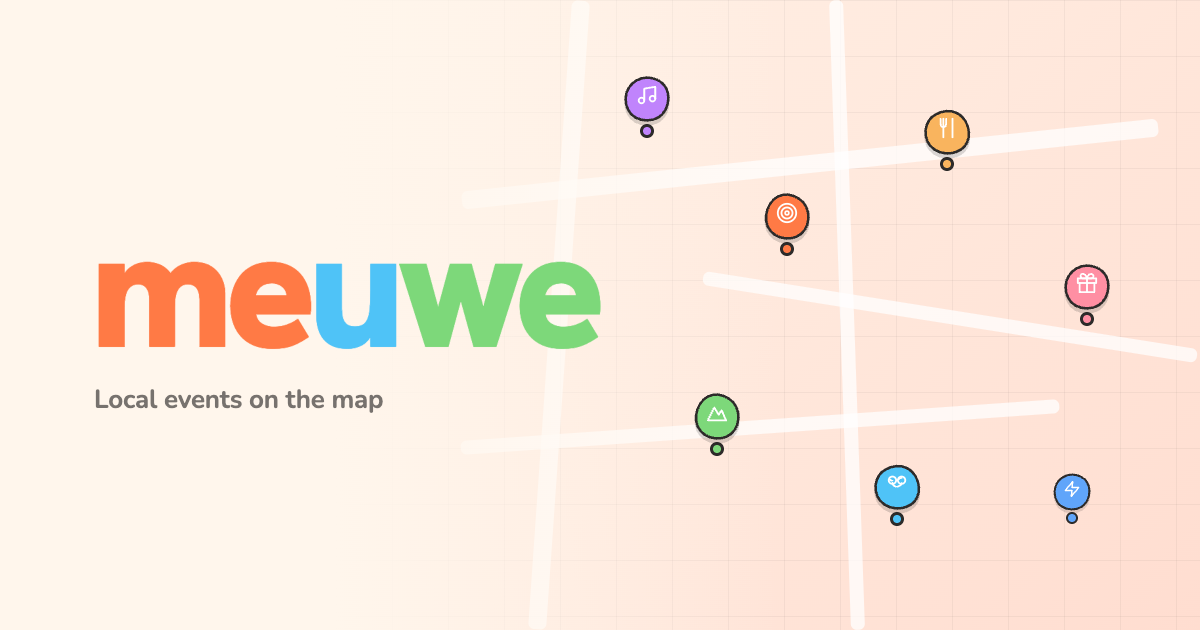
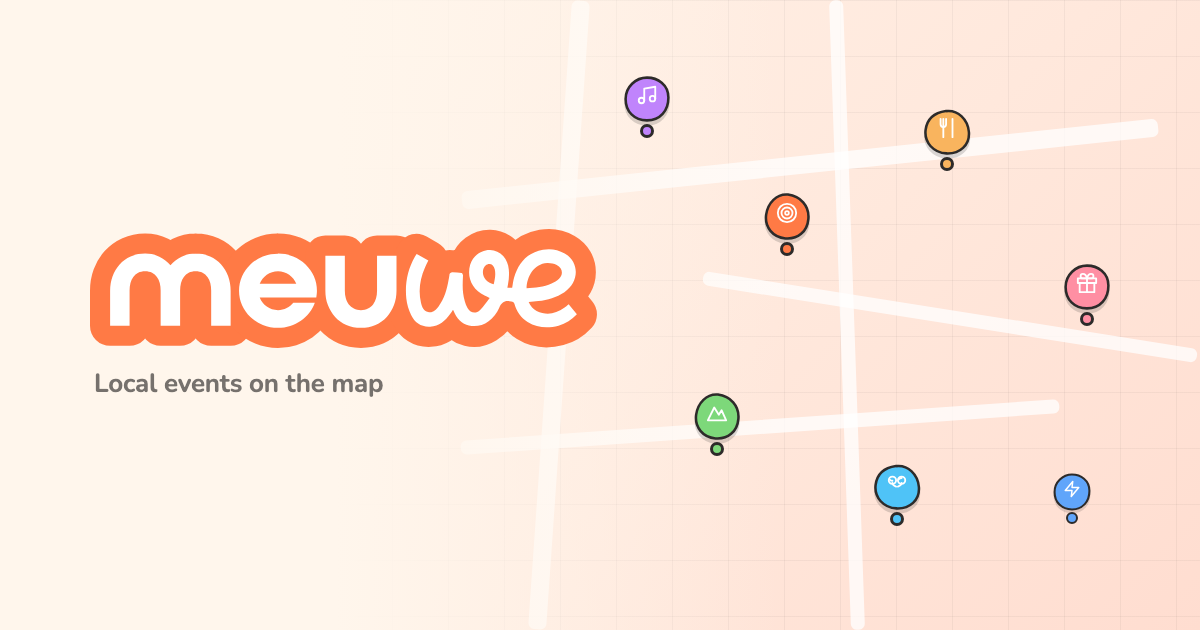
Draw the wordmark instead of setting it in type
The "meuwe" in the app was five letters of Hanken Grotesk in three colours,
repeated as three spans in nine places. The brand now has a drawn wordmark —
white letters inside an orange rim — so those spans give way to one component
holding the artwork.

It ships as inline SVG rather than an <img> because the welcome screen breathes
the logo one part at a time, and that needs the paths themselves. The rims are
painted as a single layer beneath all the white fills: neighbouring letters
overlap there, so when one part swells and its neighbour holds still the
silhouette reshapes instead of tearing open.

Sizes come from matching the old width, which lands on a steady 0.71 of the
font size it replaces. The nav keeps its own size for the next commit.

Changed region(s): [[0.0617, 0.3619, 0.5242, 0.573], [0.0617, 0.6032, 0.3392, 0.6635]]

diff --git a/src/components/MeuweLogo.tsx b/src/components/MeuweLogo.tsx
@@ -1,0 +1,97 @@
+/**
+ * Wordmark „meuwe" — naklejka: białe litery w pomarańczowym rancie.
+ *
+ * SVG siedzi inline, a nie w <img>, bo animacja na powitaniu rusza osobno
+ * członami „me", „u" i „we", a to wymaga dostępu do samych ścieżek.
+ *
+ * Kolejność malowania jest istotna: najpierw wszystkie ranty, dopiero na nie
+ * białe wypełnienia. Ranty sąsiednich liter zachodzą na siebie, więc kiedy
+ * jeden człon rośnie, a sąsiedni stoi, sylwetka naklejki tylko się
+ * przemodelowuje — nie rozpada się na kawałki.
+ */
+
+import type { CSSProperties } from 'react'
+
+// Barwa marki, ta sama co C.primary. Trzymana lokalnie, żeby logo dało się
+// wstawić również w ErrorBoundary, który celowo nie sięga po resztę kodu.
+const ORANGE = '#FF7A45'
+
+// Widoczne granice logo: ścieżki poszerzone o połowę grubości rantu.
+const VIEW_BOX = '32.73 17.64 125.02 29.33'
+const RATIO = 125.02 / 29.33
+
+/** Szerokość, jaką logo zajmie przy zadanej wysokości. */
+function meuweLogoWidth(height: number) {
+  return Math.round(height * RATIO * 100) / 100
+}
+
+// Człony skalują się wokół własnego środka w poziomie i wspólnej linii bazowej
+// w pionie — tak jak dotąd, gdy były spanami siedzącymi w jednej linii tekstu.
+const PARTS = [
+  { key: 'me', origin: '63.19px 42px', delay: '0s'   },
+  { key: 'u',  origin: '99.54px 42px', delay: '0.6s' },
+  { key: 'we', origin: '131.7px 42px', delay: '1.2s' },
+] as const
+
+const RIM = {
+  me: ['M58.77,23.69c1.32,0,2.52,.24,3.58,.72,1.07,.48,1.97,1.14,2.72,1.97,.75,.83,1.32,1.8,1.73,2.91,.4,1.11,.61,2.29,.61,3.55v8.64h-4.8v-8.64c0-.66-.08-1.29-.22-1.87-.15-.59-.38-1.09-.7-1.52-.32-.43-.72-.77-1.2-1.02-.48-.26-1.05-.38-1.71-.38s-1.23,.13-1.71,.38-.88,.6-1.2,1.02c-.32,.43-.55,.93-.7,1.52-.15,.59-.22,1.21-.22,1.87v8.64h-4.8v-8.64c0-.66-.07-1.29-.22-1.87s-.38-1.09-.7-1.52c-.32-.43-.72-.77-1.2-1.02s-1.05-.38-1.71-.38-1.23,.13-1.71,.38c-.48,.26-.88,.6-1.2,1.02-.32,.43-.55,.93-.7,1.52-.15,.59-.22,1.21-.22,1.87v8.64h-4.8v-8.64c0-1.26,.2-2.44,.61-3.55,.4-1.11,.98-2.08,1.73-2.91,.75-.83,1.65-1.49,2.72-1.97,1.07-.48,2.26-.72,3.58-.72s2.43,.26,3.5,.78,1.99,1.23,2.74,2.13c.75-.9,1.66-1.6,2.74-2.13,1.08-.52,2.24-.78,3.5-.78Z', 'M79.09,23.69c1.32,0,2.57,.24,3.74,.72,1.17,.48,2.19,1.14,3.06,1.97,.86,.83,1.55,1.8,2.05,2.91,.5,1.11,.75,2.29,.75,3.55,0,.3-.02,.58-.05,.85-.03,.27-.07,.54-.11,.82h-13.95c.36,.92,.94,1.67,1.74,2.26,.8,.59,1.72,.88,2.77,.88,.77,0,1.48-.17,2.14-.51,.66-.34,1.2-.79,1.63-1.34h5.31c-.32,.9-.77,1.73-1.36,2.5-.59,.77-1.28,1.42-2.08,1.97-.8,.54-1.68,.97-2.64,1.28-.96,.31-1.96,.46-3.01,.46-1.32,0-2.57-.24-3.74-.72-1.17-.48-2.19-1.14-3.06-1.97-.86-.83-1.55-1.8-2.05-2.91s-.75-2.29-.75-3.55,.25-2.44,.75-3.55c.5-1.11,1.18-2.08,2.05-2.91,.86-.83,1.88-1.49,3.06-1.97,1.17-.48,2.42-.72,3.74-.72Zm4.51,7.46c-.36-.91-.95-1.65-1.76-2.23-.81-.58-1.73-.87-2.75-.87s-1.97,.29-2.77,.87c-.8,.58-1.38,1.32-1.74,2.23h9.02Z'],
+  u:  ['M103.51,24.21h4.8v8.64c0,1.26-.21,2.44-.62,3.55-.42,1.11-1.01,2.08-1.78,2.91s-1.69,1.49-2.77,1.97c-1.08,.48-2.28,.72-3.6,.72s-2.52-.24-3.6-.72c-1.08-.48-2-1.14-2.77-1.97-.77-.83-1.36-1.8-1.78-2.91-.42-1.11-.62-2.29-.62-3.55v-8.64h4.8v8.64c0,.66,.08,1.29,.24,1.87,.16,.59,.4,1.09,.74,1.52,.33,.43,.75,.77,1.25,1.02s1.08,.38,1.74,.38,1.24-.13,1.74-.38,.92-.6,1.25-1.02c.33-.43,.58-.93,.74-1.52,.16-.59,.24-1.21,.24-1.87v-8.64Z'],
+  we: ['M121.47,27.81c1.04,.06,2,.09,2.95,.2,.13,.02,.33,.41,.32,.63-.11,2.29-.24,4.59,.4,6.83,.16,.56,.37,1.13,.67,1.63,.76,1.26,2.04,1.51,3.11,.48,.87-.84,1.53-1.89,2.36-2.95-.56-.26-.91-.41-1.26-.58-3.05-1.45-4.45-4.44-3.56-7.59,.61-2.16,2.71-3.73,4.91-3.67,2.14,.07,3.95,1.63,4.46,3.87,.35,1.54,.25,3.09-.04,4.63-.05,.24-.09,.48-.15,.81l1.18,.05c.16-.87,.24-1.73,.48-2.54,1.08-3.62,3.23-6.19,7.12-6.88,1.87-.33,3.69-.03,5.36,.92,3.67,2.09,3.63,7.12-.07,9.55-1.96,1.28-4.14,1.91-6.44,2.19-.75,.09-1.51,.17-2.38,.27,.43,1.01,1.05,1.75,1.96,2.19,2.42,1.16,4.69,.74,6.82-.77,.18-.13,.35-.28,.52-.42,.17-.14,.34-.27,.56-.45l2.03,2.45c-1.26,1.38-2.74,2.34-4.52,2.8-2.65,.68-5.24,.56-7.63-.92-1.65-1.02-2.68-2.52-3.22-4.36-.13-.45-.37-.54-.81-.65-1.52-.38-2.36,.1-2.99,1.59-.65,1.54-1.82,2.8-3.28,3.72-2.69,1.7-5.79,.95-7.37-1.82-.26-.45-.46-.92-.74-1.49-.24,.37-.44,.7-.66,1.01-1.25,1.71-2.73,3.08-4.98,3.2-2.2,.12-3.78-.99-4.69-2.87-.61-1.26-1.03-2.68-1.18-4.07-.37-3.63,.29-7.11,2.11-10.32,.12-.21,.26-.41,.45-.7l2.86,1.64c-.29,.59-.56,1.13-.81,1.69-1.24,2.8-1.69,5.71-.99,8.72,.23,1,.61,2.01,1.75,2.27,1.16,.26,1.92-.49,2.54-1.31,1.47-1.93,2.1-4.2,2.51-6.55,.13-.77,.22-1.55,.34-2.44Zm18.92,4.44c2.14-.15,4.23-.26,6.16-1.16,.66-.31,1.33-.68,1.84-1.18,1.13-1.1,.86-2.77-.57-3.42-.71-.32-1.56-.5-2.34-.47-3.37,.15-5.08,3.6-5.09,6.24Zm-8.11-.98c.29-1.23,.53-2.4,.27-3.62-.19-.91-.67-1.41-1.36-1.41-.66,0-1.27,.55-1.48,1.34-.43,1.62,.62,3.17,2.57,3.69Z'],
+}
+
+const FILL = {
+  me: ['M58.77,23.69c1.32,0,2.52,.24,3.58,.72,1.07,.48,1.97,1.14,2.72,1.97,.75,.83,1.32,1.8,1.73,2.91,.4,1.11,.61,2.29,.61,3.55v8.64h-4.8v-8.64c0-.66-.08-1.29-.22-1.87-.15-.59-.38-1.09-.7-1.52-.32-.43-.72-.77-1.2-1.02-.48-.26-1.05-.38-1.71-.38s-1.23,.13-1.71,.38-.88,.6-1.2,1.02c-.32,.43-.55,.93-.7,1.52-.15,.59-.22,1.21-.22,1.87v8.64h-4.8v-8.64c0-.66-.07-1.29-.22-1.87s-.38-1.09-.7-1.52c-.32-.43-.72-.77-1.2-1.02s-1.05-.38-1.71-.38-1.23,.13-1.71,.38c-.48,.26-.88,.6-1.2,1.02-.32,.43-.55,.93-.7,1.52-.15,.59-.22,1.21-.22,1.87v8.64h-4.8v-8.64c0-1.26,.2-2.44,.61-3.55,.4-1.11,.98-2.08,1.73-2.91,.75-.83,1.65-1.49,2.72-1.97,1.07-.48,2.26-.72,3.58-.72s2.43,.26,3.5,.78,1.99,1.23,2.74,2.13c.75-.9,1.66-1.6,2.74-2.13,1.08-.52,2.24-.78,3.5-.78Z', 'M79.09,23.69c1.32,0,2.57,.24,3.74,.72,1.17,.48,2.19,1.14,3.06,1.97,.86,.83,1.55,1.8,2.05,2.91,.5,1.11,.75,2.29,.75,3.55,0,.3-.02,.58-.05,.85-.03,.27-.07,.54-.11,.82h-13.95c.36,.92,.94,1.67,1.74,2.26,.8,.59,1.72,.88,2.77,.88,.77,0,1.48-.17,2.14-.51,.66-.34,1.2-.79,1.63-1.34h5.31c-.32,.9-.77,1.73-1.36,2.5-.59,.77-1.28,1.42-2.08,1.97-.8,.54-1.68,.97-2.64,1.28-.96,.31-1.96,.46-3.01,.46-1.32,0-2.57-.24-3.74-.72-1.17-.48-2.19-1.14-3.06-1.97-.86-.83-1.55-1.8-2.05-2.91s-.75-2.29-.75-3.55,.25-2.44,.75-3.55c.5-1.11,1.18-2.08,2.05-2.91,.86-.83,1.88-1.49,3.06-1.97,1.17-.48,2.42-.72,3.74-.72Zm4.51,7.46c-.36-.91-.95-1.65-1.76-2.23-.81-.58-1.73-.87-2.75-.87s-1.97,.29-2.77,.87c-.8,.58-1.38,1.32-1.74,2.23h9.02Z'],
+  u:  ['M103.51,24.21h4.8v8.64c0,1.26-.21,2.44-.62,3.55-.42,1.11-1.01,2.08-1.78,2.91s-1.69,1.49-2.77,1.97c-1.08,.48-2.28,.72-3.6,.72s-2.52-.24-3.6-.72c-1.08-.48-2-1.14-2.77-1.97-.77-.83-1.36-1.8-1.78-2.91-.42-1.11-.62-2.29-.62-3.55v-8.64h4.8v8.64c0,.66,.08,1.29,.24,1.87,.16,.59,.4,1.09,.74,1.52,.33,.43,.75,.77,1.25,1.02s1.08,.38,1.74,.38,1.24-.13,1.74-.38,.92-.6,1.25-1.02c.33-.43,.58-.93,.74-1.52,.16-.59,.24-1.21,.24-1.87v-8.64Z'],
+  we: ['M121.35,28.93c.05-.37,.39-.65,.76-.63,.79,.04,1.53,.08,2.28,.17,.13,.02,.33,.41,.32,.63-.11,2.29-.21,4.13,.44,6.37,.16,.56,.37,1.13,.67,1.63,.76,1.26,2.04,1.51,3.11,.48,.87-.84,1.53-1.89,2.36-2.95-.56-.26-.91-.41-1.26-.58-3.05-1.45-4.45-4.44-3.56-7.59,.61-2.16,2.71-3.73,4.91-3.67,2.14,.07,3.95,1.63,4.46,3.87,.35,1.54,.25,3.09-.04,4.63-.05,.24-.09,.48-.15,.81l1.18,.05c.16-.87,.24-1.73,.48-2.54,1.08-3.62,3.23-6.19,7.12-6.88,1.87-.33,3.69-.03,5.36,.92,3.67,2.09,3.63,7.12-.07,9.55-1.96,1.28-4.14,1.91-6.44,2.19-.75,.09-1.51,.17-2.38,.27,.43,1.01,1.05,1.75,1.96,2.19,2.42,1.16,4.69,.74,6.82-.77,.18-.13,.35-.28,.52-.42,.17-.14,.34-.27,.56-.45l2.03,2.45c-1.26,1.38-2.74,2.34-4.52,2.8-2.65,.68-5.24,.56-7.63-.92-1.65-1.02-2.68-2.52-3.22-4.36-.13-.45-.37-.54-.81-.65-1.52-.38-2.36,.1-2.99,1.59-.55,1.3-1.46,2.39-2.6,3.26-2.57,1.94-6.32,1.53-7.97-1.24-.29-.48-.5-.99-.81-1.61-.24,.37-.44,.7-.66,1.01-1.25,1.71-2.73,3.08-4.98,3.2-2.2,.12-3.78-.99-4.69-2.87-.61-1.26-1.03-2.68-1.18-4.07-.37-3.63,.29-7.11,2.11-10.32,.12-.21,.26-.41,.44-.7l2.88,1.6c-.29,.61-.58,1.16-.82,1.72-1.24,2.8-1.69,5.71-.99,8.72,.23,1,.61,2.01,1.75,2.27,1.16,.26,1.92-.49,2.54-1.31,1.47-1.93,2.1-4.2,2.51-6.55,.1-.57,.14-.69,.22-1.32Zm19.04,3.32c2.14-.15,4.23-.26,6.16-1.16,.66-.31,1.33-.68,1.84-1.18,1.13-1.1,.86-2.77-.57-3.42-.71-.32-1.56-.5-2.34-.47-3.37,.15-5.08,3.6-5.09,6.24Zm-8.11-.98c.29-1.23,.53-2.4,.27-3.62-.19-.91-.67-1.41-1.36-1.41-.66,0-1.27,.55-1.48,1.34-.43,1.62,.62,3.17,2.57,3.69Z'],
+}
+
+export function MeuweLogo({ height, animated = false, style }: {
+  /** Wysokość logo w px — szerokość dolicza się z proporcji. */
+  height: number
+  /** Oddychanie człon po członie, używane na powitaniu. */
+  animated?: boolean
+  style?: CSSProperties
+}) {
+  // Szerokość podana wprost: w kontenerach flex SVG z „auto" potrafi się zapaść.
+  const width = meuweLogoWidth(height)
+
+  const partStyle = (origin: string, delay: string): CSSProperties =>
+    animated
+      ? { transformOrigin: origin, animation: `breathe-sm 3.2s ${delay} ease-in-out infinite` }
+      : { transformOrigin: origin }
+
+  return (
+    <svg
+      viewBox={VIEW_BOX}
+      width={width}
+      height={height}
+      role="img"
+      aria-label="meuwe"
+      style={{ display: 'block', flexShrink: 0, ...style }}
+    >
+      {/* Ranty — cała warstwa pod spodem, żeby sąsiednie człony się zlewały. */}
+      {PARTS.map(p => (
+        <g key={`rim-${p.key}`} style={partStyle(p.origin, p.delay)}>
+          {RIM[p.key].map((d, i) => (
+            <path
+              key={i}
+              d={d}
+              fill={ORANGE}
+              stroke={ORANGE}
+              strokeWidth={9.92}
+              strokeLinecap="round"
+              strokeLinejoin="round"
+            />
+          ))}
+        </g>
+      ))}
+
+      {/* Białe litery — zawsze na wierzchu rantów. */}
+      {PARTS.map(p => (
+        <g key={`fill-${p.key}`} style={partStyle(p.origin, p.delay)}>
+          {FILL[p.key].map((d, i) => <path key={i} d={d} fill="#fff" />)}
+        </g>
+      ))}
+    </svg>
+  )
+}

diff --git a/public/og-image-template.html b/public/og-image-template.html
@@ -44,17 +44,7 @@
     display: flex; flex-direction: column; gap: 18px;
   }
 
-  .logo {
-    font-family: "Hanken Grotesk", system-ui, sans-serif;
-    font-weight: 900;
-    font-size: 168px;
-    line-height: 0.9;
-    letter-spacing: -8px;
-    display: flex; align-items: baseline;
-  }
-  .me { color: #FF7A45; }
-  .u  { color: #4FC3F7; }
-  .we { color: #7DD87A; }
+  .logo { display: block; }
 
   .tagline {
     font-size: 26px;
@@ -90,9 +80,7 @@
 
   <!-- branding -->
   <div class="brand">
-    <div class="logo">
-      <span class="me">me</span><span class="u">u</span><span class="we">we</span>
-    </div>
+    <svg class="logo" viewBox="32.73 17.64 125.02 29.33" width="507" height="119" role="img" aria-label="meuwe"><path d="M58.77,23.69c1.32,0,2.52,.24,3.58,.72,1.07,.48,1.97,1.14,2.72,1.97,.75,.83,1.32,1.8,1.73,2.91,.4,1.11,.61,2.29,.61,3.55v8.64h-4.8v-8.64c0-.66-.08-1.29-.22-1.87-.15-.59-.38-1.09-.7-1.52-.32-.43-.72-.77-1.2-1.02-.48-.26-1.05-.38-1.71-.38s-1.23,.13-1.71,.38-.88,.6-1.2,1.02c-.32,.43-.55,.93-.7,1.52-.15,.59-.22,1.21-.22,1.87v8.64h-4.8v-8.64c0-.66-.07-1.29-.22-1.87s-.38-1.09-.7-1.52c-.32-.43-.72-.77-1.2-1.02s-1.05-.38-1.71-.38-1.23,.13-1.71,.38c-.48,.26-.88,.6-1.2,1.02-.32,.43-.55,.93-.7,1.52-.15,.59-.22,1.21-.22,1.87v8.64h-4.8v-8.64c0-1.26,.2-2.44,.61-3.55,.4-1.11,.98-2.08,1.73-2.91,.75-.83,1.65-1.49,2.72-1.97,1.07-.48,2.26-.72,3.58-.72s2.43,.26,3.5,.78,1.99,1.23,2.74,2.13c.75-.9,1.66-1.6,2.74-2.13,1.08-.52,2.24-.78,3.5-.78Z" fill="#FF7A45" stroke="#FF7A45" stroke-width="9.92" stroke-linecap="round" stroke-linejoin="round"/><path d="M79.09,23.69c1.32,0,2.57,.24,3.74,.72,1.17,.48,2.19,1.14,3.06,1.97,.86,.83,1.55,1.8,2.05,2.91,.5,1.11,.75,2.29,.75,3.55,0,.3-.02,.58-.05,.85-.03,.27-.07,.54-.11,.82h-13.95c.36,.92,.94,1.67,1.74,2.26,.8,.59,1.72,.88,2.77,.88,.77,0,1.48-.17,2.14-.51,.66-.34,1.2-.79,1.63-1.34h5.31c-.32,.9-.77,1.73-1.36,2.5-.59,.77-1.28,1.42-2.08,1.97-.8,.54-1.68,.97-2.64,1.28-.96,.31-1.96,.46-3.01,.46-1.32,0-2.57-.24-3.74-.72-1.17-.48-2.19-1.14-3.06-1.97-.86-.83-1.55-1.8-2.05-2.91s-.75-2.29-.75-3.55,.25-2.44,.75-3.55c.5-1.11,1.18-2.08,2.05-2.91,.86-.83,1.88-1.49,3.06-1.97,1.17-.48,2.42-.72,3.74-.72Zm4.51,7.46c-.36-.91-.95-1.65-1.76-2.23-.81-.58-1.73-.87-2.75-.87s-1.97,.29-2.77,.87c-.8,.58-1.38,1.32-1.74,2.23h9.02Z" fill="#FF7A45" stroke="#FF7A45" stroke-width="9.92" stroke-linecap="round" stroke-linejoin="round"/><path d="M103.51,24.21h4.8v8.64c0,1.26-.21,2.44-.62,3.55-.42,1.11-1.01,2.08-1.78,2.91s-1.69,1.49-2.77,1.97c-1.08,.48-2.28,.72-3.6,.72s-2.52-.24-3.6-.72c-1.08-.48-2-1.14-2.77-1.97-.77-.83-1.36-1.8-1.78-2.91-.42-1.11-.62-2.29-.62-3.55v-8.64h4.8v8.64c0,.66,.08,1.29,.24,1.87,.16,.59,.4,1.09,.74,1.52,.33,.43,.75,.77,1.25,1.02s1.08,.38,1.74,.38,1.24-.13,1.74-.38,.92-.6,1.25-1.02c.33-.43,.58-.93,.74-1.52,.16-.59,.24-1.21,.24-1.87v-8.64Z" fill="#FF7A45" stroke="#FF7A45" stroke-width="9.92" stroke-linecap="round" stroke-linejoin="round"/><path d="M121.47,27.81c1.04,.06,2,.09,2.95,.2,.13,.02,.33,.41,.32,.63-.11,2.29-.24,4.59,.4,6.83,.16,.56,.37,1.13,.67,1.63,.76,1.26,2.04,1.51,3.11,.48,.87-.84,1.53-1.89,2.36-2.95-.56-.26-.91-.41-1.26-.58-3.05-1.45-4.45-4.44-3.56-7.59,.61-2.16,2.71-3.73,4.91-3.67,2.14,.07,3.95,1.63,4.46,3.87,.35,1.54,.25,3.09-.04,4.63-.05,.24-.09,.48-.15,.81l1.18,.05c.16-.87,.24-1.73,.48-2.54,1.08-3.62,3.23-6.19,7.12-6.88,1.87-.33,3.69-.03,5.36,.92,3.67,2.09,3.63,7.12-.07,9.55-1.96,1.28-4.14,1.91-6.44,2.19-.75,.09-1.51,.17-2.38,.27,.43,1.01,1.05,1.75,1.96,2.19,2.42,1.16,4.69,.74,6.82-.77,.18-.13,.35-.28,.52-.42,.17-.14,.34-.27,.56-.45l2.03,2.45c-1.26,1.38-2.74,2.34-4.52,2.8-2.65,.68-5.24,.56-7.63-.92-1.65-1.02-2.68-2.52-3.22-4.36-.13-.45-.37-.54-.81-.65-1.52-.38-2.36,.1-2.99,1.59-.65,1.54-1.82,2.8-3.28,3.72-2.69,1.7-5.79,.95-7.37-1.82-.26-.45-.46-.92-.74-1.49-.24,.37-.44,.7-.66,1.01-1.25,1.71-2.73,3.08-4.98,3.2-2.2,.12-3.78-.99-4.69-2.87-.61-1.26-1.03-2.68-1.18-4.07-.37-3.63,.29-7.11,2.11-10.32,.12-.21,.26-.41,.45-.7l2.86,1.64c-.29,.59-.56,1.13-.81,1.69-1.24,2.8-1.69,5.71-.99,8.72,.23,1,.61,2.01,1.75,2.27,1.16,.26,1.92-.49,2.54-1.31,1.47-1.93,2.1-4.2,2.51-6.55,.13-.77,.22-1.55,.34-2.44Zm18.92,4.44c2.14-.15,4.23-.26,6.16-1.16,.66-.31,1.33-.68,1.84-1.18,1.13-1.1,.86-2.77-.57-3.42-.71-.32-1.56-.5-2.34-.47-3.37,.15-5.08,3.6-5.09,6.24Zm-8.11-.98c.29-1.23,.53-2.4,.27-3.62-.19-.91-.67-1.41-1.36-1.41-.66,0-1.27,.55-1.48,1.34-.43,1.62,.62,3.17,2.57,3.69Z" fill="#FF7A45" stroke="#FF7A45" stroke-width="9.92" stroke-linecap="round" stroke-linejoin="round"/><path d="M58.77,23.69c1.32,0,2.52,.24,3.58,.72,1.07,.48,1.97,1.14,2.72,1.97,.75,.83,1.32,1.8,1.73,2.91,.4,1.11,.61,2.29,.61,3.55v8.64h-4.8v-8.64c0-.66-.08-1.29-.22-1.87-.15-.59-.38-1.09-.7-1.52-.32-.43-.72-.77-1.2-1.02-.48-.26-1.05-.38-1.71-.38s-1.23,.13-1.71,.38-.88,.6-1.2,1.02c-.32,.43-.55,.93-.7,1.52-.15,.59-.22,1.21-.22,1.87v8.64h-4.8v-8.64c0-.66-.07-1.29-.22-1.87s-.38-1.09-.7-1.52c-.32-.43-.72-.77-1.2-1.02s-1.05-.38-1.71-.38-1.23,.13-1.71,.38c-.48,.26-.88,.6-1.2,1.02-.32,.43-.55,.93-.7,1.52-.15,.59-.22,1.21-.22,1.87v8.64h-4.8v-8.64c0-1.26,.2-2.44,.61-3.55,.4-1.11,.98-2.08,1.73-2.91,.75-.83,1.65-1.49,2.72-1.97,1.07-.48,2.26-.72,3.58-.72s2.43,.26,3.5,.78,1.99,1.23,2.74,2.13c.75-.9,1.66-1.6,2.74-2.13,1.08-.52,2.24-.78,3.5-.78Z" fill="#fff"/><path d="M79.09,23.69c1.32,0,2.57,.24,3.74,.72,1.17,.48,2.19,1.14,3.06,1.97,.86,.83,1.55,1.8,2.05,2.91,.5,1.11,.75,2.29,.75,3.55,0,.3-.02,.58-.05,.85-.03,.27-.07,.54-.11,.82h-13.95c.36,.92,.94,1.67,1.74,2.26,.8,.59,1.72,.88,2.77,.88,.77,0,1.48-.17,2.14-.51,.66-.34,1.2-.79,1.63-1.34h5.31c-.32,.9-.77,1.73-1.36,2.5-.59,.77-1.28,1.42-2.08,1.97-.8,.54-1.68,.97-2.64,1.28-.96,.31-1.96,.46-3.01,.46-1.32,0-2.57-.24-3.74-.72-1.17-.48-2.19-1.14-3.06-1.97-.86-.83-1.55-1.8-2.05-2.91s-.75-2.29-.75-3.55,.25-2.44,.75-3.55c.5-1.11,1.18-2.08,2.05-2.91,.86-.83,1.88-1.49,3.06-1.97,1.17-.48,2.42-.72,3.74-.72Zm4.51,7.46c-.36-.91-.95-1.65-1.76-2.23-.81-.58-1.73-.87-2.75-.87s-1.97,.29-2.77,.87c-.8,.58-1.38,1.32-1.74,2.23h9.02Z" fill="#fff"/><path d="M103.51,24.21h4.8v8.64c0,1.26-.21,2.44-.62,3.55-.42,1.11-1.01,2.08-1.78,2.91s-1.69,1.49-2.77,1.97c-1.08,.48-2.28,.72-3.6,.72s-2.52-.24-3.6-.72c-1.08-.48-2-1.14-2.77-1.97-.77-.83-1.36-1.8-1.78-2.91-.42-1.11-.62-2.29-.62-3.55v-8.64h4.8v8.64c0,.66,.08,1.29,.24,1.87,.16,.59,.4,1.09,.74,1.52,.33,.43,.75,.77,1.25,1.02s1.08,.38,1.74,.38,1.24-.13,1.74-.38,.92-.6,1.25-1.02c.33-.43,.58-.93,.74-1.52,.16-.59,.24-1.21,.24-1.87v-8.64Z" fill="#fff"/><path d="M121.35,28.93c.05-.37,.39-.65,.76-.63,.79,.04,1.53,.08,2.28,.17,.13,.02,.33,.41,.32,.63-.11,2.29-.21,4.13,.44,6.37,.16,.56,.37,1.13,.67,1.63,.76,1.26,2.04,1.51,3.11,.48,.87-.84,1.53-1.89,2.36-2.95-.56-.26-.91-.41-1.26-.58-3.05-1.45-4.45-4.44-3.56-7.59,.61-2.16,2.71-3.73,4.91-3.67,2.14,.07,3.95,1.63,4.46,3.87,.35,1.54,.25,3.09-.04,4.63-.05,.24-.09,.48-.15,.81l1.18,.05c.16-.87,.24-1.73,.48-2.54,1.08-3.62,3.23-6.19,7.12-6.88,1.87-.33,3.69-.03,5.36,.92,3.67,2.09,3.63,7.12-.07,9.55-1.96,1.28-4.14,1.91-6.44,2.19-.75,.09-1.51,.17-2.38,.27,.43,1.01,1.05,1.75,1.96,2.19,2.42,1.16,4.69,.74,6.82-.77,.18-.13,.35-.28,.52-.42,.17-.14,.34-.27,.56-.45l2.03,2.45c-1.26,1.38-2.74,2.34-4.52,2.8-2.65,.68-5.24,.56-7.63-.92-1.65-1.02-2.68-2.52-3.22-4.36-.13-.45-.37-.54-.81-.65-1.52-.38-2.36,.1-2.99,1.59-.55,1.3-1.46,2.39-2.6,3.26-2.57,1.94-6.32,1.53-7.97-1.24-.29-.48-.5-.99-.81-1.61-.24,.37-.44,.7-.66,1.01-1.25,1.71-2.73,3.08-4.98,3.2-2.2,.12-3.78-.99-4.69-2.87-.61-1.26-1.03-2.68-1.18-4.07-.37-3.63,.29-7.11,2.11-10.32,.12-.21,.26-.41,.44-.7l2.88,1.6c-.29,.61-.58,1.16-.82,1.72-1.24,2.8-1.69,5.71-.99,8.72,.23,1,.61,2.01,1.75,2.27,1.16,.26,1.92-.49,2.54-1.31,1.47-1.93,2.1-4.2,2.51-6.55,.1-.57,.14-.69,.22-1.32Zm19.04,3.32c2.14-.15,4.23-.26,6.16-1.16,.66-.31,1.33-.68,1.84-1.18,1.13-1.1,.86-2.77-.57-3.42-.71-.32-1.56-.5-2.34-.47-3.37,.15-5.08,3.6-5.09,6.24Zm-8.11-.98c.29-1.23,.53-2.4,.27-3.62-.19-.91-.67-1.41-1.36-1.41-.66,0-1.27,.55-1.48,1.34-.43,1.62,.62,3.17,2.57,3.69Z" fill="#fff"/></svg>
     <div class="tagline">Local events on the map</div>
   </div>
 

diff --git a/src/screens/Welcome.tsx b/src/screens/Welcome.tsx
@@ -2,6 +2,7 @@ import { useState } from 'react'
 import { useTranslation } from 'react-i18next'
 import OrganicBlob from '../components/OrganicBlob'
 import BlobFace from '../components/BlobFace'
+import { MeuweLogo } from '../components/MeuweLogo'
 import { C, INK, F } from '../lib/tokens'
 import { useBlobPhysics } from '../hooks/useBlobPhysics'
 import { db } from '../lib/supabase'
@@ -47,14 +48,7 @@ export default function Welcome({ onSignIn }: { onSignIn: (mode: 'google' | 'app
         display: 'flex', flexDirection: 'column', alignItems: 'center',
         justifyContent: 'center', padding: '0 28px',
       }}>
-        <div style={{
-          fontFamily: F.display, fontWeight: 900, fontSize: 52,
-          lineHeight: 0.95, letterSpacing: -2, display: 'flex', alignItems: 'baseline', marginBottom: 32,
-        }}>
-          <span style={{ color: C.primary }}>me</span>
-          <span style={{ color: C.sky }}>u</span>
-          <span style={{ color: C.grass }}>we</span>
-        </div>
+        <MeuweLogo height={37} style={{ marginBottom: 32 }} />
         <div style={{
           width: '100%', maxWidth: 380, background: '#fff',
           border: `2.5px solid ${INK}`, borderRadius: 28,
@@ -133,14 +127,7 @@ export default function Welcome({ onSignIn }: { onSignIn: (mode: 'google' | 'app
         alignItems: 'center', justifyContent: 'center',
         padding: '0 32px', position: 'relative', zIndex: 1,
       }}>
-        <div style={{
-          fontFamily: F.display, fontWeight: 900, fontSize: 88,
-          lineHeight: 0.95, letterSpacing: -3, display: 'flex', alignItems: 'baseline',
-        }}>
-          <span style={{ color: C.primary, animation: 'breathe-sm 3.2s 0s ease-in-out infinite', display: 'inline-block', transformOrigin: 'center bottom' }}>me</span>
-          <span style={{ color: C.sky,     animation: 'breathe-sm 3.2s 0.6s ease-in-out infinite', display: 'inline-block', transformOrigin: 'center bottom' }}>u</span>
-          <span style={{ color: C.grass,   animation: 'breathe-sm 3.2s 1.2s ease-in-out infinite', display: 'inline-block', transformOrigin: 'center bottom' }}>we</span>
-        </div>
+        <MeuweLogo height={62} animated />
         <div style={{
           marginTop: 16, fontFamily: F.body, fontSize: 22, fontWeight: 600,
           color: C.ink, opacity: 0.7, textAlign: 'center', maxWidth: 280, lineHeight: 1.4,

diff --git a/src/App.tsx b/src/App.tsx
@@ -48,6 +48,7 @@ import AttendanceAskModal from './components/AttendanceAskModal'
 import { pickAttendanceAsk, type AskCandidate } from './lib/attendanceAsk'
 import { useEventChain } from './hooks/useEventChain'
 import { geoStrategy, listStrategy } from './lib/eventChain'
+import { MeuweLogo } from './components/MeuweLogo'
 
 type Screen = 'loading' | 'welcome' | 'map' | 'myEvents' | 'followedEvents'
 
@@ -962,14 +963,7 @@ export default function App() {
       width: '100%', height: '100%', display: 'flex', flexDirection: 'column',
       alignItems: 'center', justifyContent: 'center', background: C.cream, gap: 20,
     }}>
-      <div style={{
-        fontFamily: F.display, fontWeight: 900, fontSize: 56,
-        letterSpacing: -2, lineHeight: 1, display: 'flex',
-      }}>
-        <span style={{ color: C.primary }}>me</span>
-        <span style={{ color: C.sky }}>u</span>
-        <span style={{ color: C.grass }}>we</span>
-      </div>
+      <MeuweLogo height={40} />
       <div style={{
         width: 28, height: 28, borderRadius: '50%',
         border: '3px solid rgba(255,122,69,0.25)', borderTopColor: C.primary,
@@ -1267,11 +1261,7 @@ export default function App() {
               textAlign: 'center',
             }}
           >
-            <div style={{ fontFamily: F.display, fontWeight: 900, fontSize: 52, lineHeight: 1, display: 'flex', alignItems: 'baseline' }}>
-              <span style={{ color: C.primary }}>me</span>
-              <span style={{ color: C.sky }}>u</span>
-              <span style={{ color: C.grass }}>we</span>
-            </div>
+            <MeuweLogo height={37} />
             <p style={{ margin: 0, fontFamily: F.body, fontWeight: 600, fontSize: 16, color: C.ink, lineHeight: 1.5, maxWidth: 260 }}>
               {authModal === 'chat' ? t('auth.chatPrompt') : t('auth.createEventPrompt')}
             </p>

diff --git a/src/screens/MapScreen.tsx b/src/screens/MapScreen.tsx
@@ -24,6 +24,7 @@ import EventPickerModal from '../components/EventPickerModal'
 import { clusterPublicEvents } from '../lib/eventClusters'
 import { nextFetchView, type FetchView } from '../lib/mapView'
 import { useDeviceHeading } from '../hooks/useDeviceHeading'
+import { MeuweLogo } from '../components/MeuweLogo'
 
 const WARSAW = { lat: 52.2297, lng: 21.0122 }
 const IP_ZOOM = 11 // coarse city-level zoom for an IP-based guess (GPS uses 15)
@@ -542,14 +543,7 @@ function MapScreen({
           position: 'absolute', inset: 0, background: C.cream, zIndex: 100,
           display: 'flex', flexDirection: 'column', alignItems: 'center', justifyContent: 'center', gap: 20,
         }}>
-          <div style={{
-            fontFamily: F.display, fontWeight: 900, fontSize: 56,
-            letterSpacing: -2, lineHeight: 1, display: 'flex',
-          }}>
-            <span style={{ color: C.primary }}>me</span>
-            <span style={{ color: C.sky }}>u</span>
-            <span style={{ color: C.grass }}>we</span>
-          </div>
+          <MeuweLogo height={40} />
           <div style={{
             width: 28, height: 28, borderRadius: '50%',
             border: '3px solid rgba(255,122,69,0.25)', borderTopColor: C.primary,

diff --git a/src/components/ErrorBoundary.tsx b/src/components/ErrorBoundary.tsx
@@ -1,4 +1,5 @@
 import { Component, type ErrorInfo, type ReactNode } from 'react'
+import { MeuweLogo } from './MeuweLogo'
 
 interface Props {
   children: ReactNode
@@ -34,15 +35,7 @@ export class ErrorBoundary extends Component<Props, State> {
           background: '#FFF6EC', gap: 16, padding: 24,
           fontFamily: '"Nunito",ui-rounded,system-ui,sans-serif',
         }}>
-          <div style={{
-            fontSize: 48, fontWeight: 900,
-            fontFamily: '"Hanken Grotesk","Nunito",ui-rounded,system-ui,sans-serif',
-            letterSpacing: -2, display: 'flex',
-          }}>
-            <span style={{ color: '#FF7A45' }}>me</span>
-            <span style={{ color: '#4FC3F7' }}>u</span>
-            <span style={{ color: '#7DD87A' }}>we</span>
-          </div>
+          <MeuweLogo height={34} />
           <div style={{ fontSize: 15, fontWeight: 700, color: '#2D2B2A', textAlign: 'center' }}>
             Coś poszło nie tak
           </div>

diff --git a/src/components/landing/sections/LandingFooter.tsx b/src/components/landing/sections/LandingFooter.tsx
@@ -1,7 +1,7 @@
 import { useTranslation } from 'react-i18next'
 import { useNavigate } from 'react-router-dom'
-import { C } from '../../../lib/tokens'
 import '../landing.css'
+import { MeuweLogo } from '../../MeuweLogo'
 
 export function LandingFooter() {
   const { t } = useTranslation()
@@ -11,11 +11,7 @@ export function LandingFooter() {
     <footer className="lp-footer">
       <div className="lp-footer-top">
         <div className="lp-footer-brand">
-          <div className="lp-footer-logo">
-            <span style={{ color: C.primary }}>me</span>
-            <span style={{ color: C.sky }}>u</span>
-            <span style={{ color: C.grass }}>we</span>
-          </div>
+          <MeuweLogo height={24} style={{ marginBottom: 10 }} />
         </div>
 
         <div className="lp-footer-cols">

diff --git a/src/components/landing/landing.css b/src/components/landing/landing.css
@@ -146,11 +146,6 @@
   gap: 80px; margin-bottom: 56px;
 }
 .lp-footer-brand { flex-shrink: 0; }
-.lp-footer-logo {
-  font-family: "Hanken Grotesk", system-ui, sans-serif;
-  font-weight: 900; font-size: 34px; letter-spacing: -1.8px;
-  line-height: 1; margin-bottom: 10px;
-}
 .lp-footer-tagline {
   font-size: 13px; font-weight: 600;
   color: rgba(255,246,236,0.3); letter-spacing: 0.3px;
